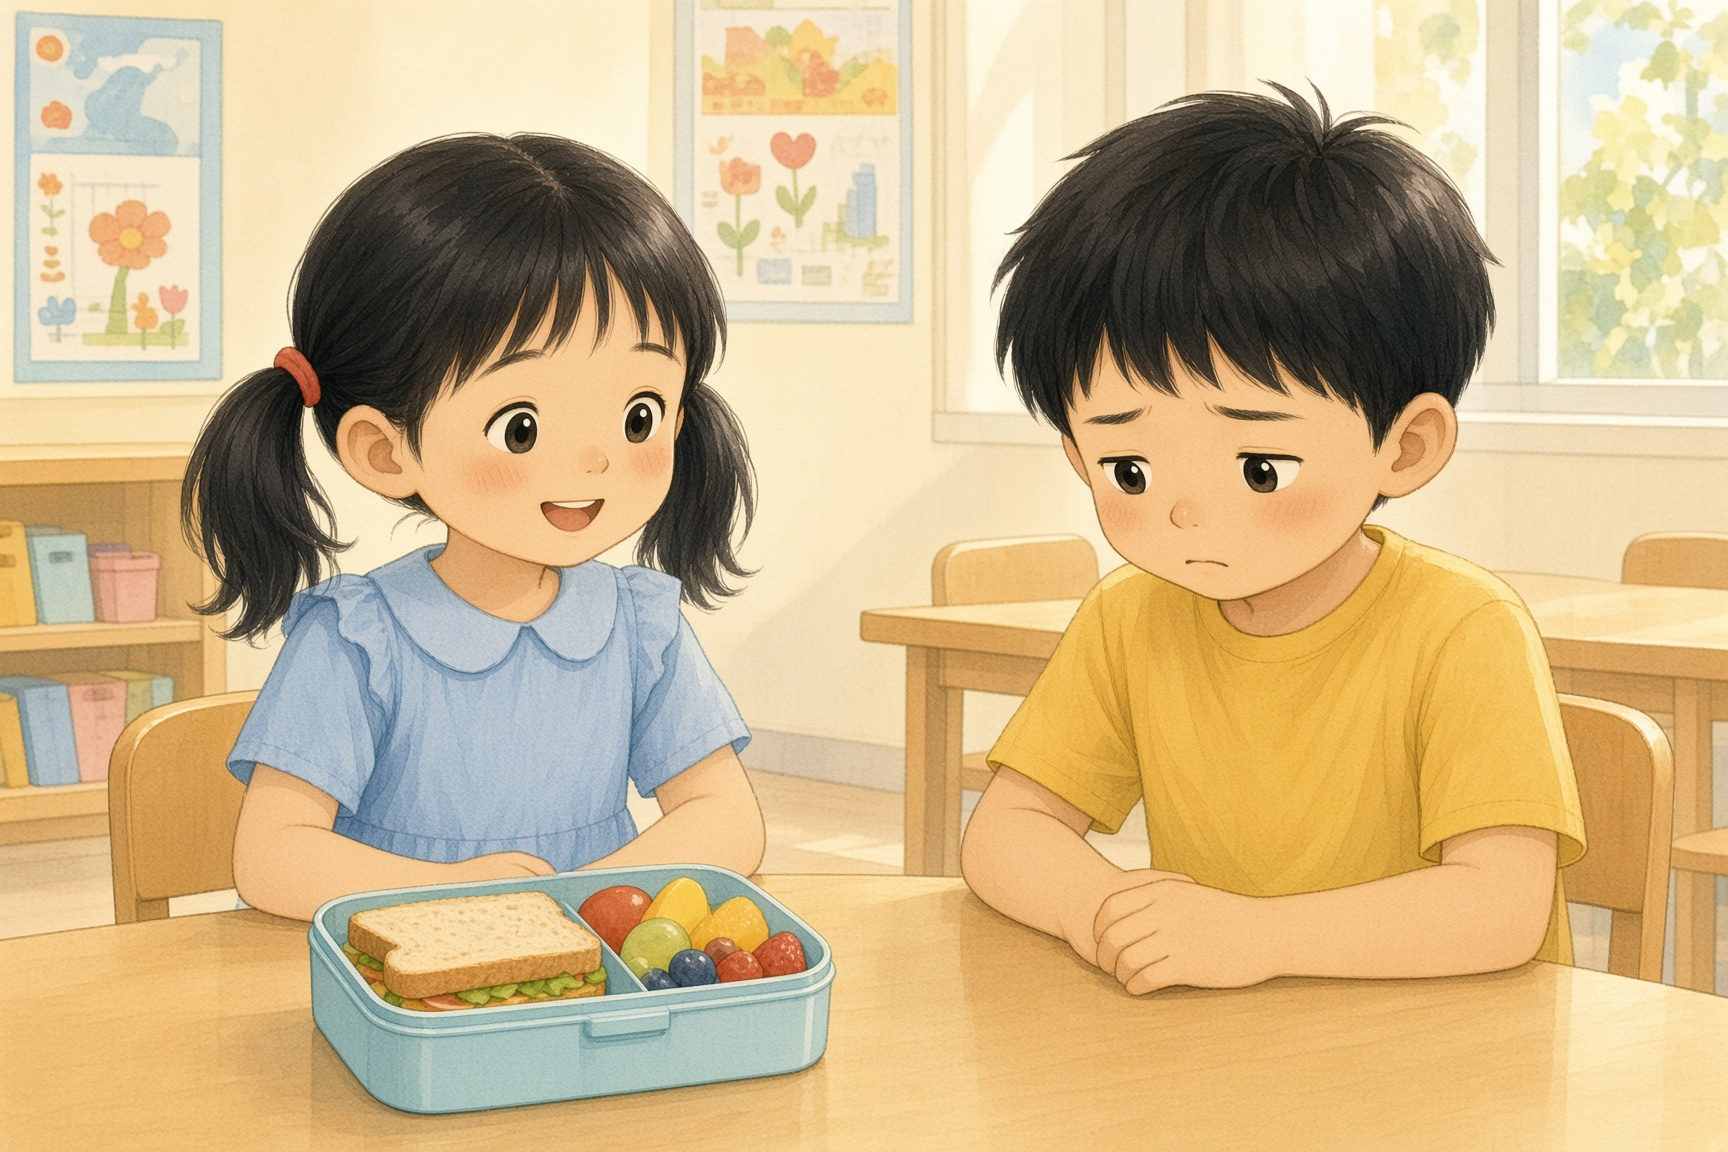
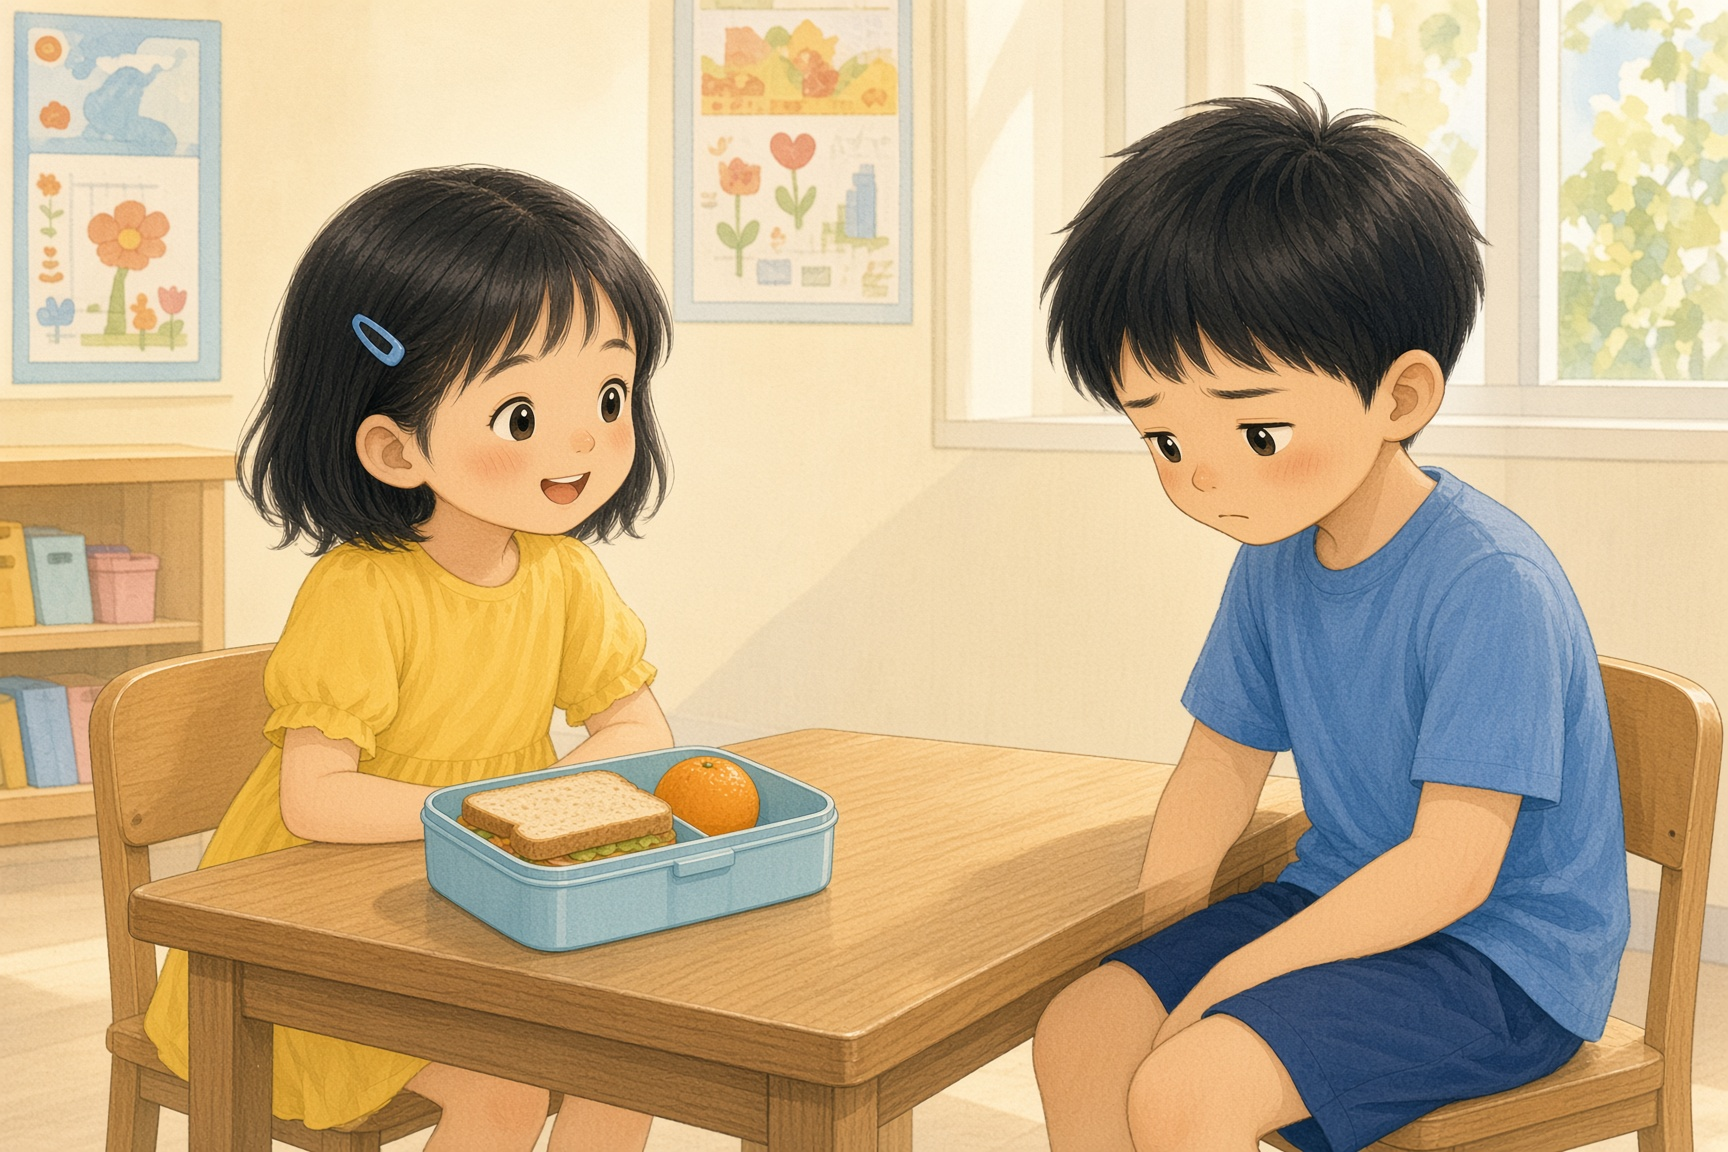
Redraw lunch story with only Anan and the blue-shirt classmate

diff --git a/stories.js b/stories.js
@@ -317,22 +317,22 @@ window.STORIES = [
       {
         caption: "飯堂裏，安安有午餐，對面同學什麼也沒有。",
         hint: "兩個人有什麼不同？",
-        image: "comics/lunch/1.jpg",
+        image: "comics/lunch/1.jpg?v=3",
       },
       {
         caption: "安安看見同學難過，看了看自己的食物。",
         hint: "安安發現了什麼？她的心情怎樣？",
-        image: "comics/lunch/2.jpg?v=2",
+        image: "comics/lunch/2.jpg?v=3",
       },
       {
         caption: "安安把三文治分開，分給同學。",
         hint: "她怎樣幫助同學？",
-        image: "comics/lunch/3.jpg?v=2",
+        image: "comics/lunch/3.jpg?v=3",
       },
       {
         caption: "兩人一起吃飯，都笑了。",
         hint: "結果怎樣？分享之後有什麼感覺？",
-        image: "comics/lunch/4.jpg?v=2",
+        image: "comics/lunch/4.jpg?v=3",
       },
     ],
     starters: [
